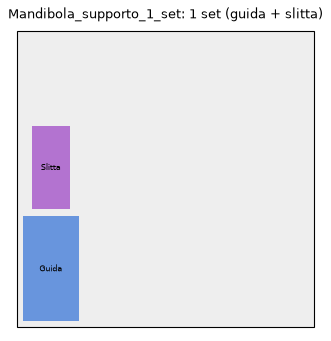
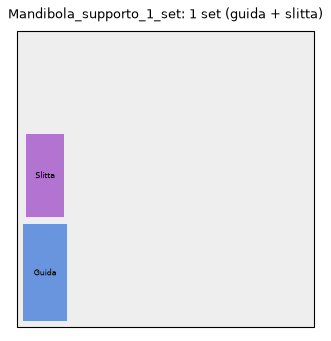
Mandibola: supporto spostato all'estremità sinistra della base, corsa 80 mm
La guida ora si imbullona sotto il blocco pieno in fondo a Base_L (4 fori a
7/18 mm dal bordo sinistro), con il canale aperto verso l'esterno: il servo
sta vicino alla cerniera della mandibola e lavora con un braccio corto.
Corsa della slitta 80 mm (albero da 40 a 120 mm sotto la base, o 60-140 con
l'albero in basso), guida alta 168 mm, fessure su tutti e due i fianchi.
Bulloni M4x35. Slitta invariata.

Changed region(s): [[0.0604, 0.3519, 0.2417, 0.9384]]

diff --git a/mechanical/mandibola/supporto_mandibola.py b/mechanical/mandibola/supporto_mandibola.py
@@ -1,25 +1,28 @@
 """
 Supporto del servo della mandibola (DS3225, 25 kg) sotto la base degli occhi D85: 2 pezzi stampati.
 
-  1. Guida   - flangia avvitata SOTTO la base con 4 bulloni M4 (fori da fare nella base, la flangia fa da
-               dima) e un canale verticale a U, aperto verso il lato dell'albero del servo e in basso.
+  1. Guida   - flangia avvitata SOTTO l'estremita' SINISTRA della base (Base_L) con 4 bulloni M4 (fori da fare
+               nella base, la flangia fa da dima) e un canale verticale a U, aperto verso l'esterno (lato
+               dell'albero del servo) e in basso, con una fessura verticale su tutti e due i fianchi.
   2. Slitta  - l'incasso preciso del DS3225 (corpo nella tasca, orecchie appoggiate sulla faccia, 4 viti del
-               servo); scorre nel canale per regolare l'ALTEZZA e si blocca con 2 viti M4 che passano nella
-               fessura verticale della parete laterale della guida e si avvitano nei dadi della slitta.
+               servo); scorre nel canale per regolare l'ALTEZZA (corsa 80 mm) e si blocca con 2 viti M4 che
+               passano nella fessura di un fianco della guida e si avvitano nei dadi della slitta.
 
-Albero del servo orizzontale, parallelo all'asse degli occhi (asse x): la squadretta del servo si avvita alla
-mandibola, che gira come una cerniera attorno all'albero.
+Albero del servo orizzontale, parallelo all'asse degli occhi (asse x) e rivolto verso l'esterno: il servo sta
+all'estremita' della base, vicino alla cerniera della mandibola, e la squadretta si avvita alla mandibola con un
+braccio corto.
 
 Coordinate della base assemblata (x verso destra, y verso dietro, z in su, fondo della base a z = 0; i piedi
-dei supporti a L sporgono fino a z = -21.5 a x = +-28.7..43.6 e +-157..168).
-Posizione di serie: centrata sulla giunzione delle due meta' della base (x = 0), fori a y = -43 (5 mm dietro il
-bordo anteriore della base al centro) e y = +36.5 (3.5 mm prima del gradino della linguetta PCA9685), a
-x = +-12: in tutti e 4 i punti la base e' piena e spessa 12.8 mm.
+dei supporti a L sporgono fino a z = -21.5 a x = +-28.7..43.6 e +-157.3..168.3).
+Posizione di serie: sotto il blocco pieno all'estremita' sinistra della base (x = -193.9..-169, spesso 20.8 mm),
+parete di fondo della guida a 1.5 mm dal piede del supporto esterno; fori a x = -175.8 e -186.8, y = -50 e +22.
+La guida e' simmetrica davanti/dietro: girata di 180 gradi va anche all'estremita' destra (se la base la' e'
+intera, Base_R).
 
 Servo DS3225 (datasheet Dsservo): corpo 40 x 20 x 40.5, orecchie 54.5, fori 49.5 x 10, faccia inferiore
 delle orecchie a 27.7 dal fondo, albero a ~10 mm da un'estremita' del corpo.
 
-Uso:  python supporto_mandibola.py     -> pezzi/*.stl, stampa/*.3mf (+ anteprime), immagini in ../../docs/img
+Uso:  python supporto_mandibola.py     -> pezzi/*.stl, stampa/*.3mf (+ anteprime)
 Dipendenze: pip install trimesh manifold3d numpy matplotlib
 """
 import json
@@ -52,12 +55,14 @@ SL = dict(D=32.0, W=32.6, H=72.0, FLOOR=3.8,
           LOCK_X=22.0, LOCK_Z=30.0, LOCK_DEPTH=14.0,      # 2 viti di blocco (lungo y, dalla faccia +y)
           CABLE_W=8.0, CABLE_X1=12.0)                     # passaggio del cavo alle due estremita'
 
-# ------------------------------------------------------------------ guida (coordinate della base)
-GD = dict(cx=0.0, cy=-3.25,                               # centro del canale
-          bolts=[(-12.0, -43.0), (12.0, -43.0), (-12.0, 36.5), (12.0, 36.5)],
-          fl_x=24.0, fl_y=(-48.0, 43.0), fl_t=6.0,        # flangia (bordo davanti a filo del bordo della base al centro)
-          wall=6.0, L=220.0, cav_top=-30.0,               # pareti, lunghezza canale, inizio della cavita'
-          slot_top=-36.0, slot_w=4.6)
+# ------------------------------------------------------------------ guida
+# Coordinate locali della guida: u = distanza dalla faccia esterna della parete di fondo verso l'esterno (lato
+# aperto), v = di fianco (centro del canale a 0), z = come la base. Nella base: x = x_back - u, y = cy - v.
+GD = dict(x_back=-169.8, cy=-14.0,                         # parete di fondo a 1.5 mm dal piede esterno (x -168.3)
+          bolt_u=(6.0, 17.0), bolt_v=36.0,                # 4 fori: x = -175.8 / -186.8, y = -50 / +22
+          fl_v=42.0, fl_t=6.0,                            # flangia: mezza lunghezza (v), spessore
+          wall=6.0, cable_gap=8.0,                        # pareti; spazio per il cavo sopra la slitta in alto
+          travel=80.0, slot_w=4.6)                        # corsa della slitta (regolazione in altezza)
 
 
 def box(lo, hi):
@@ -121,48 +126,66 @@ def slitta():
 
 
 # ======================================================================== guida
-def frame():
-    """posizione della slitta nella guida: faccia posteriore della slitta a x_b, centro in y = cy."""
+def dims():
+    """quote della guida (locali) e della corsa, ricavate da GD, SL e SV."""
     g = GD
-    width_x = CL_SLIDE + g["wall"] + SL["D"]
-    x0 = g["cx"] - width_x / 2
-    return x0, x0 + g["wall"] + CL_SLIDE        # x esterno della parete di fondo, x_b
+    u_b = g["wall"] + CL_SLIDE                     # faccia posteriore della slitta
+    u1 = u_b + SL["D"]                             # lato aperto (a filo della faccia delle orecchie)
+    vi = SL["W"] / 2 + CL_SLIDE                    # cavita'
+    vo = vi + g["wall"]                            # esterno dei fianchi
+    cav_top = -g["fl_t"] - g["cable_gap"]
+    hi = cav_top - SL["H"] / 2                     # centro della slitta: tutta in alto ...
+    lo = hi - g["travel"]                          # ... e tutta in basso
+    slot_top = hi + SL["LOCK_Z"] + g["slot_w"] / 2
+    slot_bot = lo - SL["LOCK_Z"] - g["slot_w"] / 2
+    zb = slot_bot - 6.0                            # fondo della guida
+    return dict(u_b=u_b, u1=u1, vi=vi, vo=vo, cav_top=cav_top, hi=hi, lo=lo,
+                slot_top=slot_top, slot_bot=slot_bot, zb=zb, u_lock=u_b + SL["LOCK_X"])
 
 
-def guida():
-    g = GD
-    x0, xb = frame()
-    x1 = xb + SL["D"]
-    cy = g["cy"]
-    yi = SL["W"] / 2 + CL_SLIDE
-    yo = yi + g["wall"]
+def to_base(m):
+    """guida in coordinate locali -> base (giro di 180 gradi attorno a z: x = x_back - u, y = cy - v)."""
+    return m.rotate((0, 0, 180)).translate((GD["x_back"], GD["cy"], 0))
+
+
+def bolts():
+    """i 4 fori nella base (x, y)."""
+    return [(GD["x_back"] - u, GD["cy"] - v) for v in (GD["bolt_v"], -GD["bolt_v"]) for u in GD["bolt_u"]]
+
+
+def guida_locale():
+    g, d = GD, dims()
     zt = -g["fl_t"]
-    zb = zt - g["L"]
     m = Manifold.batch_boolean([
-        box((-g["fl_x"], g["fl_y"][0], zt), (g["fl_x"], g["fl_y"][1], 0.0)),           # flangia
-        box((x0, cy - yo, zb), (x1, cy + yo, zt + 0.01)),                               # canale
+        box((0, -g["fl_v"], zt), (d["u1"], g["fl_v"], 0.0)),                     # flangia
+        box((0, -d["vo"], d["zb"]), (d["u1"], d["vo"], zt + 0.01)),               # canale
     ], ADD)
-    m = m - box((xb - CL_SLIDE, cy - yi, zb - 1), (x1 + 1, cy + yi, g["cav_top"]))     # cavita' (aperta davanti e sotto)
-    for (bx, by) in g["bolts"]:
-        m = m - cyl(M4_FREE / 2, (bx, by, zt - 1), (bx, by, 1))
-    xs = xb + SL["LOCK_X"]                                                              # fessura delle viti di blocco
-    m = m - slot(g["slot_w"], (xs, 0, g["slot_top"]), (xs, 0, zb + 6), 1, cy + yi - 1, cy + yo + 1)
+    m = m - box((d["u_b"] - CL_SLIDE, -d["vi"], d["zb"] - 1), (d["u1"] + 1, d["vi"], d["cav_top"]))   # cavita'
+    for u in g["bolt_u"]:
+        for v in (-g["bolt_v"], g["bolt_v"]):
+            m = m - cyl(M4_FREE / 2, (u, v, zt - 1), (u, v, 1))
+    # fessura delle viti di blocco su tutti e due i fianchi (la guida resta simmetrica davanti/dietro)
+    m = m - slot(g["slot_w"], (d["u_lock"], 0, d["slot_top"]), (d["u_lock"], 0, d["slot_bot"]), 1,
+                 -d["vo"] - 1, d["vo"] + 1)
     return m
 
 
+def guida():
+    return to_base(guida_locale())
+
+
 def slider_range():
-    """centro della slitta (z) possibile: viti di blocco dentro la fessura e slitta sotto l'inizio della cavita'."""
-    g = GD
-    zb = -g["fl_t"] - g["L"]
-    hi = min(g["slot_top"] - g["slot_w"] / 2 - SL["LOCK_Z"], g["cav_top"] - SL["H"] / 2)
-    lo = zb + 6 + g["slot_w"] / 2 + SL["LOCK_Z"]
-    return lo, hi
+    """centro della slitta (z) possibile: viti di blocco dentro la fessura, cavo libero sopra la slitta."""
+    d = dims()
+    return d["lo"], d["hi"]
 
 
 def place_slider(zc):
-    """trasformazione slitta (locale) -> base, con il centro a z = zc."""
-    _, xb = frame()
-    return trimesh.transformations.translation_matrix((xb, GD["cy"], zc))
+    """trasformazione slitta (locale) -> base, con il centro a z = zc (giro di 180 gradi attorno a z: l'orecchia
+    del servo guarda verso -x, i dadi delle viti di blocco verso il davanti)."""
+    T = trimesh.transformations.rotation_matrix(np.pi, (0, 0, 1))
+    T[:3, 3] = (GD["x_back"] - dims()["u_b"], GD["cy"], zc)
+    return T
 
 
 def servo_model(albero_su=True):
@@ -333,7 +356,11 @@ def export():
         piatto(nome, n, P)
         print("piatto", nome)
     lo, hi = slider_range()
-    print(f"albero del servo da {-(hi + 10):.0f} a {-(lo - 10):.0f} mm sotto il fondo della base (slitta da z = {hi:.0f} a {lo:.0f})")
+    d = dims()
+    print(f"corsa della slitta {hi - lo:.0f} mm (centro da z = {hi:.0f} a {lo:.0f}); albero del servo da "
+          f"{-(hi + 10):.0f} a {-(lo + 10):.0f} mm sotto il fondo della base (albero in alto) o da "
+          f"{-(hi - 10):.0f} a {-(lo - 10):.0f} (albero in basso); guida alta {-d['zb']:.1f} mm")
+    print("fori nella base:", [(round(x, 1), round(y, 1)) for x, y in bolts()])
 
 
 if __name__ == "__main__":

diff --git a/mechanical/mandibola/README.md b/mechanical/mandibola/README.md
@@ -1,52 +1,59 @@
 # Supporto del servo della mandibola (DS3225, 25 kg)
 
-Due pezzi stampati che portano il servo grande della mandibola **sotto la base degli occhi**, con
-l'**altezza regolabile**: si trova il punto in cui l'albero del servo combacia con la cerniera della
-mandibola, si stringono 2 viti e il servo muove la mandibola (firmware: `firmware/EyeD85_mandibola`, canale 0
-della PCA9685).
+Due pezzi stampati che portano il servo grande della mandibola **sotto l'estremità sinistra della base degli
+occhi** (`Base_L`), con l'albero rivolto verso l'esterno: così il servo sta vicino alla cerniera della
+mandibola e la squadretta la muove con un braccio corto. L'**altezza è regolabile (corsa 80 mm)**: si trova il
+punto in cui l'albero combacia con la cerniera, si stringono 2 viti e il servo muove la mandibola (firmware:
+`firmware/EyeD85_mandibola`, canale 0 della PCA9685).
 
 ![Supporto mandibola](../../docs/img/mandibola_supporto.png)
 
 | Pezzo | Cosa fa |
 |---|---|
-| `Guida` | **flangia** che si imbullona sotto la base con **4 bulloni M4** + **canale verticale** a U lungo 220 mm, aperto verso il lato dell'albero del servo e in basso, con una fessura verticale sul fianco |
+| `Guida` | **flangia** che si imbullona sotto il blocco pieno in fondo alla base con **4 bulloni M4** + **canale verticale** a U (alto 168 mm), aperto verso l'esterno e in basso, con una fessura verticale su tutti e due i fianchi |
 | `Slitta_DS3225` | **incasso preciso del servo**: il corpo entra nella tasca, le orecchie appoggiano sulla faccia e si fissano con le 4 viti del servo. Scorre nel canale (0.3 mm di gioco per lato) e si blocca con **2 viti M4** che passano nella fessura della guida e si avvitano nei dadi infilati nel fianco della slitta |
 
-L'albero del servo resta orizzontale e parallelo all'asse degli occhi; regolazione in altezza: **albero da 58 a
-198 mm sotto il fondo della base** (il servo si può montare nella slitta con l'albero in alto o in basso).
+L'albero del servo resta orizzontale, parallelo all'asse degli occhi, e sporge verso l'esterno: la squadretta
+sta circa 35 mm oltre il bordo sinistro della base.
+
+**Regolazione in altezza: 80 mm.** Albero da **40 a 120 mm sotto il fondo della base** col servo montato
+nella slitta con l'albero in alto, da 60 a 140 mm con l'albero in basso. Nella posizione più alta restano 8 mm
+sopra la slitta per far uscire il cavo del servo.
 
 ## Fori nella base (4 × Ø4.5)
-Posizione di serie, uguale per le teste a coppia e per quelle a occhio singolo (vedi il disegno, riquadro 1):
-- centrata sulla **giunzione delle due metà della base**, fori a **12 mm** a destra e a sinistra (24 mm tra loro);
-- fila davanti a **5 mm dal bordo anteriore della base al centro** (il bordo dell'arco), fila dietro **79.5 mm** più
-  indietro (3.5 mm prima del gradino della linguetta PCA9685).
+All'estremità **sinistra** della base (`Base_L`, quella che c'è in tutte le teste, anche in quelle a occhio
+singolo), nel **blocco pieno alto 20.8 mm** oltre il piede del supporto esterno (vedi il disegno, riquadro 1):
+- 2 colonne di fori a **7 mm** e **18 mm** dal bordo sinistro della base;
+- fila davanti a **18.4 mm** dal bordo davanti della base, fila dietro **72 mm** più indietro.
 
-In quei 4 punti la base è piena (12.8 mm) e la flangia sta tra i piedi dei supporti centrali. Basta appoggiare la
-**flangia sotto la base**, centrata sulla giunzione e col bordo davanti a filo del bordo della base, segnare i 4
-fori e forare con punta da 4.5. Se nella testa serve il servo da un'altra parte si può forare dove si vuole (la
-flangia fa da dima), purché la base sotto sia piatta e la flangia non tocchi i piedi dei supporti.
+In quei 4 punti la base è piena per tutti i 20.8 mm. Per segnare i fori basta appoggiare la **flangia sotto la
+base** usandola come dima: parete di fondo della guida a **1.5 mm dal piede del supporto esterno**, flangia che
+sporge 14.3 mm oltre il bordo sinistro e bordo davanti della flangia 12.4 mm dietro il bordo davanti della base.
+Si fora con la punta da 4.5. La flangia occupa quasi tutto il blocco, quindi la posizione avanti/indietro è
+praticamente questa.
+
+La guida è simmetrica davanti/dietro: girata di 180° va anche all'estremità destra, se la base lì è intera
+(`Base_R`). Le teste a occhio singolo hanno la metà destra corta e lì il blocco non c'è.
 
 ## Viti (per testa)
 | Dove | Viti | Dadi | Rondelle |
 |---|---|---|---|
-| Guida → base | 4 × **M4×25** dall'alto | 4 × M4 sotto la flangia | 8 × M4 (sopra la base e sotto la flangia) |
+| Guida → base | 4 × **M4×35** dall'alto | 4 × M4 sotto la flangia | 8 × M4 (sopra la base e sotto la flangia) |
 | Slitta → guida (blocco altezza) | 2 × **M4×16** | 2 × M4 nelle sedi sul fianco della slitta | 2 × M4 |
 | Servo → slitta | le 4 viti del servo (o 4 autofilettanti ~3×12) | — | — |
 
 ## Montaggio
-1. Forare la base (sopra) e imbullonare la **guida** sotto la base: bulloni dall'alto, rondella sopra la base e
-   sotto la flangia, dado sotto.
+1. Forare la base dall'alto e imbullonare la **guida** sotto l'estremità sinistra: bulloni dall'alto, rondella
+   sopra la base e sotto la flangia, dado sotto.
 2. Infilare i **2 dadi M4** nelle sedi esagonali sul fianco della slitta.
 3. Mettere il **servo nella slitta**: corpo nella tasca (il cavo esce dal passaggio in fondo alla tasca),
    orecchie sulla faccia, 4 viti del servo. Albero in alto o in basso, come serve.
-4. Infilare la **slitta nel canale dal basso**, col servo verso il lato aperto e i dadi verso la fessura.
+4. Infilare la **slitta nel canale dal basso**, col servo verso il lato aperto (verso l'esterno) e i dadi verso
+   uno dei due fianchi (di serie quello davanti).
 5. Le **2 viti M4×16** con rondella attraverso la fessura nei dadi della slitta, poco strette: far scorrere la
    slitta finché l'albero è sull'asse della cerniera della mandibola, poi stringere.
 6. Squadretta del servo sulla mandibola. Taratura della corsa (chiusa / aperta) col firmware: comando `m<gradi>`
    (es. `m35`) e `CAL_JAW` in `firmware/EyeD85_mandibola/config.h`.
-
-La guida si può montare anche **girata di 180°** (i 4 fori sono simmetrici): così l'albero del servo va
-dall'altra parte.
 
 ## Stampa
 In `stampa/`, un file per piatto (progetti Bambu Studio già disposti, da tagliare; anteprime in `stampa/anteprime/`):
@@ -54,14 +61,14 @@ In `stampa/`, un file per piatto (progetti Bambu Studio già disposti, da taglia
 - `Mandibola_supporto_4_set.3mf` — **4 set** (tutte le teste) in un solo piatto.
 
 Impostazioni salvate nel progetto: PLA 0.20 mm, **4 pareti, riempimento 25% gyroid, senza supporti** (non
-servono), piatto Textured PEI. La guida si stampa in piedi sulla flangia (alta 226 mm), la slitta sul dorso.
-Stima grossolana: ~4 h e ~140 g per set (Bambu Studio dà i valori esatti).
+servono), piatto Textured PEI. La guida si stampa in piedi sulla flangia (alta 168 mm), la slitta sul dorso.
+Stima grossolana: ~3 h e ~120 g per set (Bambu Studio dà i valori esatti).
 
-Verificato al computer con tutto il meccanismo degli occhi e la base: nessuna interferenza con la slitta in alto
-e in basso, albero su e giù; bulloni, dadi e servo liberi; la parte del servo che sporge resta sempre sotto i
-piedi dei supporti. Servo vero non ancora provato.
+Verificato al computer con tutto il meccanismo degli occhi e la base. Nessuna interferenza con la slitta in alto,
+a metà e in basso, con l'albero su e giù. Bulloni, rondelle e dadi sono liberi e appoggiano sul pieno. La guida
+resta a 1.5 mm dal piede del supporto esterno. Il servo vero non è ancora stato provato.
 
 Rigenerare pezzi e piatti: `python mechanical/mandibola/supporto_mandibola.py` (quote del servo in `SV`, della
-slitta in `SL`, della guida e dei fori in `GD`).
+slitta in `SL`, della guida, dei fori e della corsa in `GD`).
 Il supporto precedente (traversa + braccio + culla, regolabile in 3 direzioni, appeso ai 2 fori Ø12) è sul ramo
 `archivio`.

diff --git a/mechanical/README.md b/mechanical/README.md
@@ -9,7 +9,7 @@ derivati: **CC BY-NC-SA 4.0**.
 | Cartella | Contenuto |
 |---|---|
 | `eyes/eyemech_D85/` | **versione in uso**: occhi a 200 mm tra i centri (bulbo Ø85.3), 4 servo SG90/MG90S in sedi 1:1, base tagliata con linguetta PCA9685 1:1, `info.txt` con quote e viteria; `pezzi/` = un STL per pezzo; **`Testa_1` … `Testa_4` = i piatti Bambu A1 di ogni testa** (stato e cosa stampare in `eyemech_D85/README.md`) |
-| `mandibola/` | **supporto del servo della mandibola** (DS3225 25 kg): guida imbullonata sotto la base degli occhi con 4 bulloni M4 + slitta col servo regolabile in altezza (2 viti); pezzi, piatti A1 (1 set, 4 set), fori, viti e montaggio nel suo `README.md` |
+| `mandibola/` | **supporto del servo della mandibola** (DS3225 25 kg): guida imbullonata sotto l'estremità sinistra della base degli occhi con 4 bulloni M4 (servo vicino alla cerniera, albero verso l'esterno) + slitta col servo regolabile in altezza, corsa 80 mm (2 viti); pezzi, piatti A1 (1 set, 4 set), fori, viti e montaggio nel suo `README.md` |
 
 Gli script che generano pezzi e piatti (`mechanical/scripts/…`, citati nei README delle teste)
 sono sul ramo `archivio`.

diff --git a/README.md b/README.md
@@ -6,7 +6,7 @@ mossi da servo con movimento autonomo e casuale.
 ## Struttura
 ```
 mechanical/eyes/eyemech_D85/   occhi in uso (bulbo Ø85): Testa_1 … Testa_4 = piatti di stampa di ogni testa, pezzi/ = un STL per pezzo
-mechanical/mandibola/          supporto del servo mandibola (DS3225): guida imbullonata sotto la base + slitta regolabile in altezza
+mechanical/mandibola/          supporto del servo mandibola (DS3225): guida sotto l'estremità sinistra della base + slitta regolabile in altezza (80 mm)
 firmware/EyeD85_random/        movimento casuale degli occhi D85 (ESP8266 ESP-12F + PCA9685)
 firmware/EyeD85_mandibola/     come EyeD85_random + mandibola (DS3225, canale 0 della PCA9685) che si muove a caso
 firmware/EyeD85_zero/          tutti i servo a 90° + taratura via seriale (da usare per montare le squadrette)
